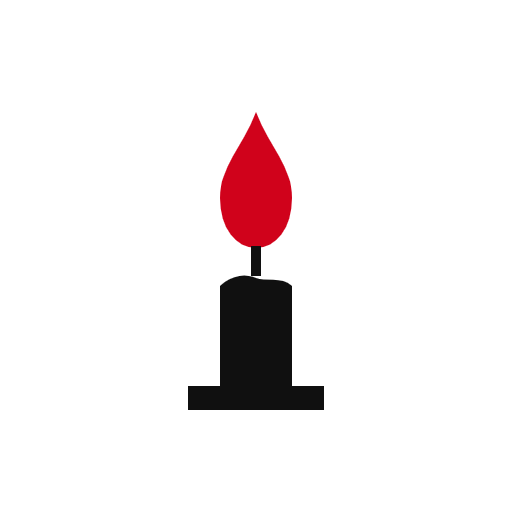
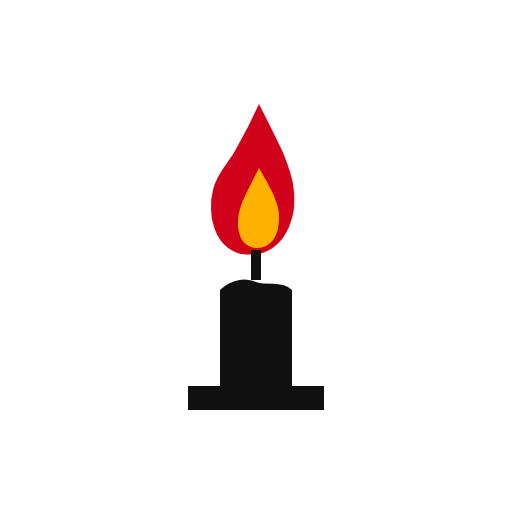
fix(brand): make the flame read as fire, not as a drop of blood
A symmetric teardrop in a single red is a blood drop. Redraw the flame in
both marks that carry one: asymmetric outline, curled tip, a shoulder on the
left, and a lighter core inside.

- mark-d-open-palm.svg: warm vertical gradient (#FF7A00 -> #D0021B) with an
  amber core
- mark-d2-open-palm-flat.svg: same silhouette in two flat tones, for a
  strictly flat brand
- mark-b-candle.svg: same flame shape, red with an amber core

DESIGN.md now allows a second, warm palette (#FFB100 / #FF7A00 / #FFE071) for
a mark that depicts fire, and states explicitly that it stays out of the
interface, which remains three flat colours.

Changed region(s): [[0.4062, 0.1875, 0.5938, 0.5], [0.4375, 0.5312, 0.5625, 0.5625]]

diff --git a/brand/rasterize.html b/brand/rasterize.html
@@ -11,6 +11,7 @@ const JOBS = [
   ['logo/mark-b-candle.svg',       'botpic-b-candle.png',       512, 512],
   ['logo/mark-c-book.svg',         'botpic-c-book.png',         512, 512],
   ['logo/mark-d-open-palm.svg',     'botpic-d-open-palm.png',     512, 512],
+  ['logo/mark-d2-open-palm-flat.svg', 'botpic-d2-open-palm-flat.png', 512, 512],
   ['description-picture-uk.svg', 'description-picture-uk.png', 640, 360],
   ['description-picture-en.svg', 'description-picture-en.png', 640, 360],
   ['invite/how-it-works-uk.svg', 'invite-how-it-works-uk.png', 1280, 720],

diff --git a/DESIGN.md b/DESIGN.md
@@ -151,11 +151,19 @@ and says nothing about the product. Curves are allowed here, and only here.
 | `mark-b-candle.svg` | A lit candle: black body, red flame, white ground |
 | `mark-c-book.svg` | An open book with a red ribbon |
 | `mark-d-open-palm.svg` | An open palm carrying a flame, white on black |
+| `mark-d2-open-palm-flat.svg` | The same palm, flame in two flat tones instead of a gradient |
+
+**Fire has a second palette.** A flame drawn in a single red is a drop of blood,
+not fire, so a mark that shows one may use warm secondaries — amber `#FFB100`,
+ember `#FF7A00`, highlight `#FFE071` — as a core inside the red, or as a vertical
+gradient. This applies to the mark only. **The interface stays three flat
+colours**; none of these values may appear in `public/style.css`.
 
 Rules for any future mark:
 
 - one recognisable object, no compositions of two ideas;
-- ink + one red + the ground colour, flat fills, no gradient or stroke effects;
+- ink + red + the ground colour, plus the warm secondaries above when the object
+  is a flame; no strokes, no shadows, no texture;
 - silhouette-first: it must survive as a 20px single-colour shape, so no detail
   thinner than ~8px at 512;
 - everything inside a 400px circle of the 512px canvas — Telegram crops avatars

diff --git a/brand/botfather.md b/brand/botfather.md
@@ -86,7 +86,8 @@ flat, no gradient — per [DESIGN.md](../DESIGN.md).
 | **A — Praying hands** | Black hands on a red square, white ground | The most literal statement of what the bot is for. The red field makes it the loudest of the four in a chat list. |
 | **B — Candle** | Black candle, red flame, white ground | Warm and unmistakable; the flame is the only red. Reads well at every size. |
 | **C — Open book** | Black open book, red ribbon, white ground | "We pray through Scripture" without a word of it. The calmest option. |
-| **D — Open palm** | White palm carrying a red flame, on black | The product in one picture: someone else is holding your request today. The only dark option — stands out in a light chat list. |
+| **D — Open palm** | White palm carrying a flame, on black | The product in one picture: someone else is holding your request today. The only dark option — stands out in a light chat list. |
+| **D2 — Open palm, flat** | The same, flame in two flat tones | Identical silhouette without the gradient. Pick this if the brand should stay strictly flat. |
 
 ---
 
